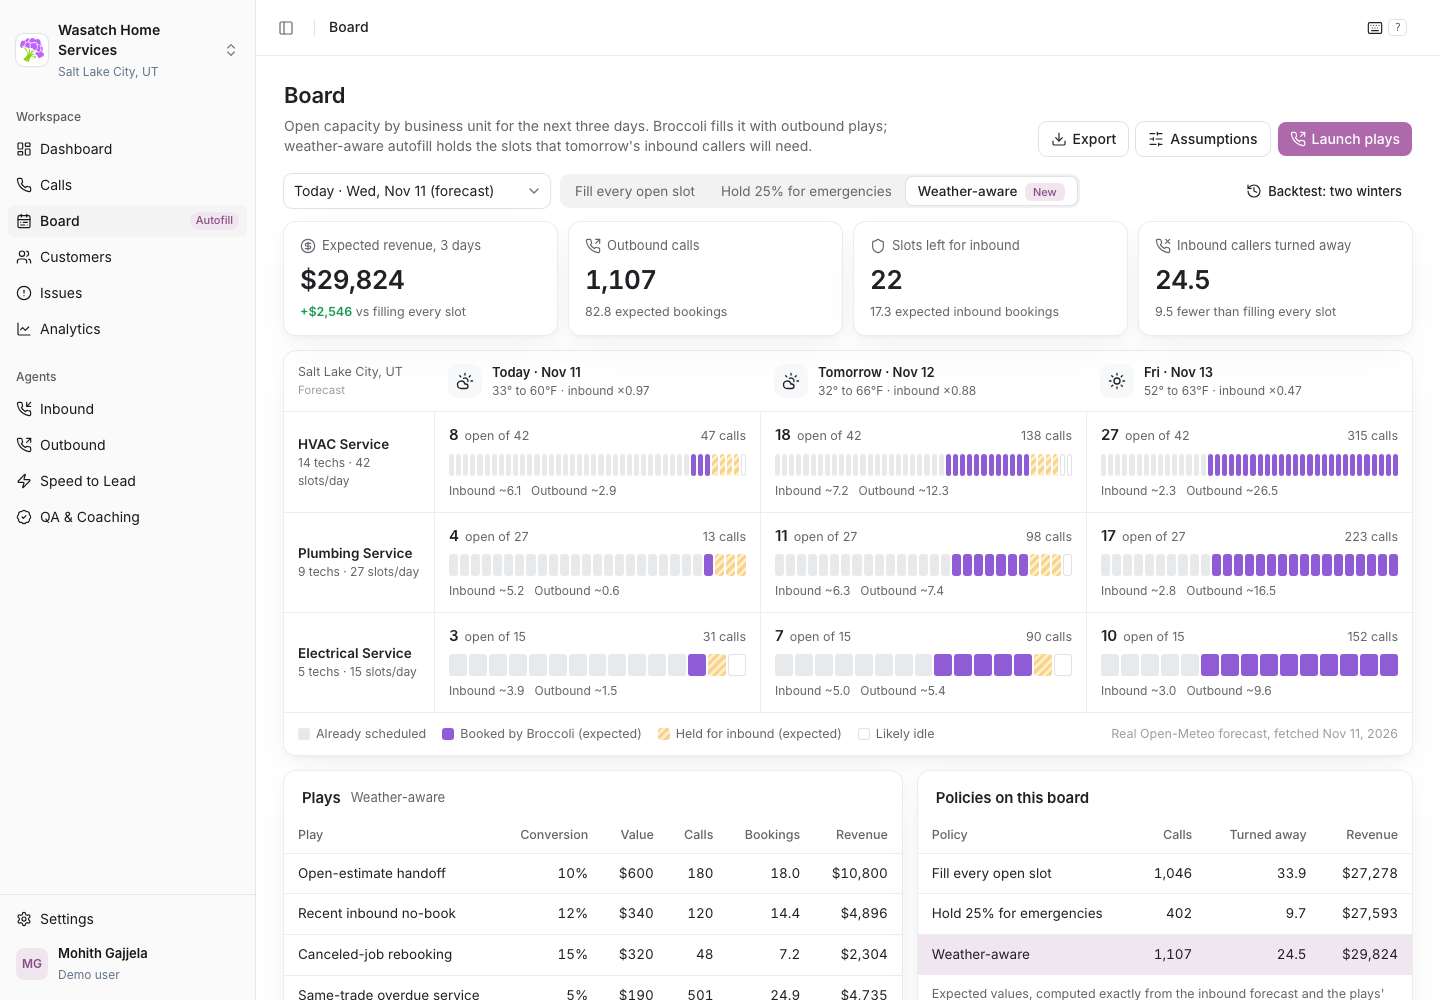
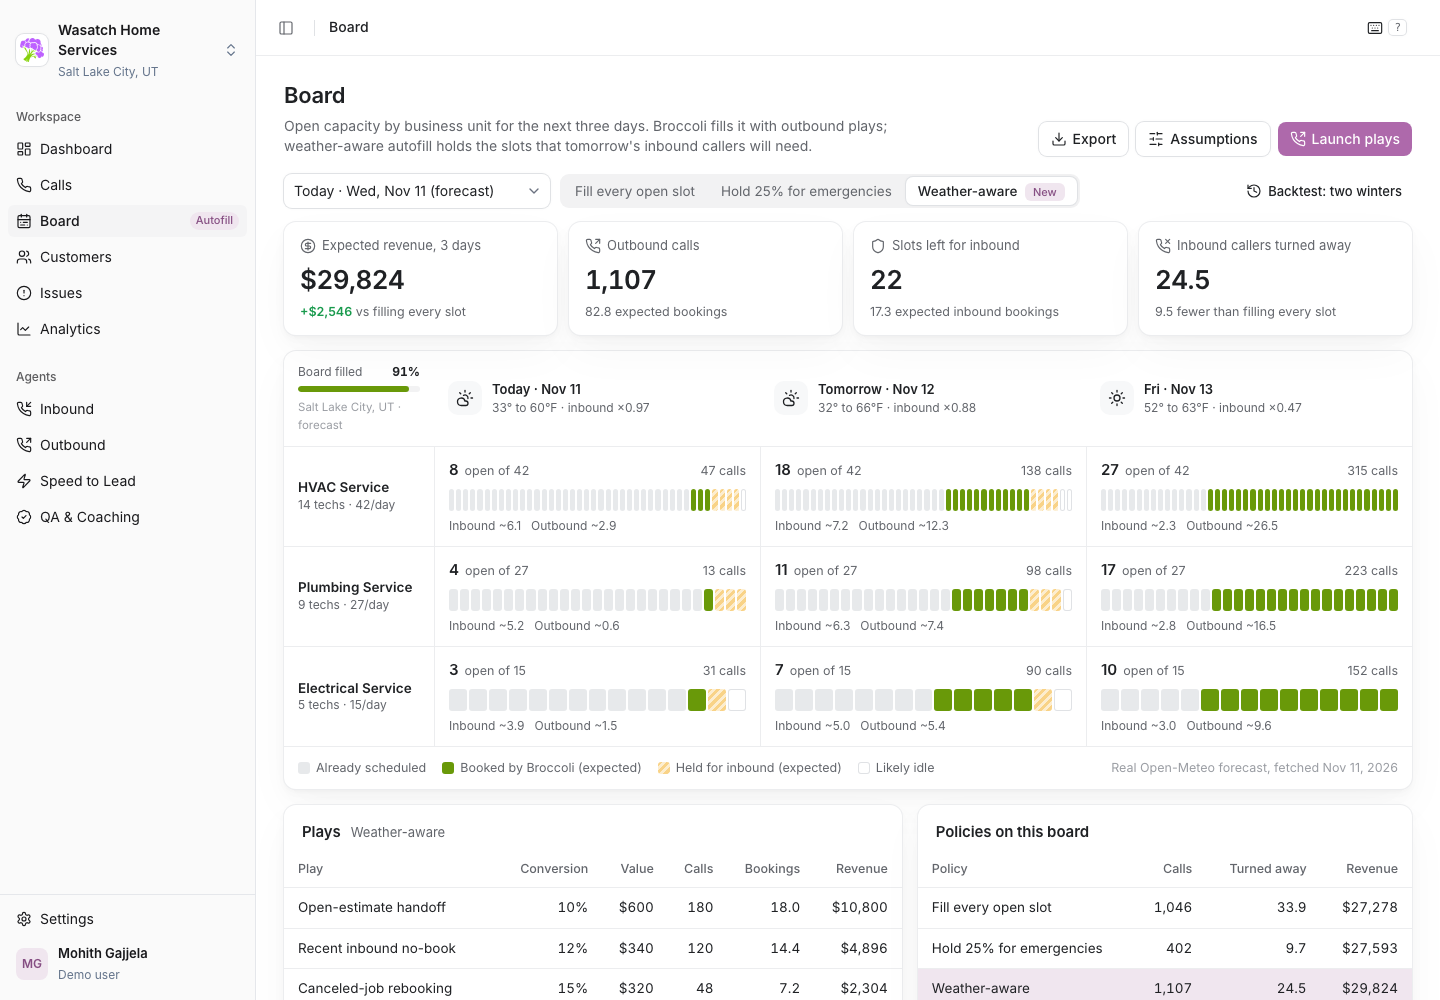
Board styling matched to Broccoli's dispatch board; board-filled meter

diff --git a/app.js b/app.js
@@ -107,11 +107,13 @@ function viewBoard(params) {
     </div>
     <section class="card" aria-label="Board">
       <div class="wx">
-        <div class="lab">${esc(CONFIG.city)}<br><span class="ink3" style="font-size:11.5px">${snap.id === "today" ? "Forecast" : "Actual"}</span></div>
+        <div class="lab"><div style="display:flex;justify-content:space-between;font-size:12px"><span>Board filled</span><b class="num" style="color:var(--bui-ink)">${pct((P.rows.reduce((s, r) => s + r.booked, 0) + P.totals.outboundBooked) / P.rows.reduce((s, r) => s + r.capacity, 0), 0)}</b></div>
+          <div style="height:6px;border-radius:99px;background:var(--bui-field);margin:5px 0 6px;overflow:hidden"><div style="height:100%;width:${pct((P.rows.reduce((s, r) => s + r.booked, 0) + P.totals.outboundBooked) / P.rows.reduce((s, r) => s + r.capacity, 0), 1)};background:var(--board-booked);border-radius:99px"></div></div>
+          <span class="ink3" style="font-size:11.5px">${esc(CONFIG.city)} · ${snap.id === "today" ? "forecast" : "actual"}</span></div>
         ${snap.dates.map((d, k) => `<div class="day"><span class="ico"><i data-lucide="${wxIcon(snap.temps[k])}"></i></span><div><div class="d1">${k === 0 ? "Today" : k === 1 ? "Tomorrow" : DAYNAME(d).split(",")[0]} · ${DAYNAME(d).split(", ")[1]}</div><div class="d2">${Math.round(snap.mins[k])}° to ${Math.round(snap.maxs[k])}°F · inbound ×${multiplier(BOARD.fit, snap.temps[k], 1).toFixed(2)}</div></div></div>`).join("")}
       </div>
       <div class="board" role="grid" aria-label="Business units by day">
-        ${CONFIG.rows.map((row) => `<div class="rowh" role="rowheader"><span class="t">${esc(row.label)}</span><span class="s">${row.techs} techs · ${row.capacity} slots/day</span></div>
+        ${CONFIG.rows.map((row) => `<div class="rowh" role="rowheader"><span class="t">${esc(row.label)}</span><span class="s">${row.techs} techs · ${row.capacity}/day</span></div>
           ${[0, 1, 2].map((d) => { const r = P.rows.find((x) => x.row === row.id && x.day === d); return `<button class="cell" role="gridcell" type="button" data-cell="${row.id}/${d}" aria-label="${esc(row.label)} ${d === 0 ? "today" : d === 1 ? "tomorrow" : "day after"}: ${r.open} open, ${n0(r.ev.calls)} calls, ${n1(r.inboundMean)} inbound expected">
             <div class="top"><b>${r.open}</b> open of ${r.capacity}<span class="calls">${n0(r.ev.calls)} calls</span></div>
             ${slotStrip(r)}
@@ -171,7 +173,7 @@ function viewCell(rowId, d, params) {
   const x = (k) => L + k * bw;
   const chart1 = `<svg class="chart" viewBox="0 0 ${W} ${H}" width="100%" role="img" aria-label="Distribution of inbound demand still to come">
     ${[0, 0.5, 1].map((f) => `<line class="gl" x1="${L}" x2="${W - Rm}" y1="${T + (1 - f) * (H - T - B)}" y2="${T + (1 - f) * (H - T - B)}"/><text x="${L - 6}" y="${T + (1 - f) * (H - T - B) + 4}" text-anchor="end">${pct(f * ymax, 0)}</text>`).join("")}
-    ${pmf.map((p, k) => `<rect x="${x(k) + 1}" y="${T + (1 - p / ymax) * (H - T - B)}" width="${Math.max(1, bw - 2)}" height="${(p / ymax) * (H - T - B)}" rx="2" fill="${k <= leftForInbound ? "hsl(var(--booked) / .55)" : "hsl(var(--unbooked) / .8)"}"/>`).join("")}
+    ${pmf.map((p, k) => `<rect x="${x(k) + 1}" y="${T + (1 - p / ymax) * (H - T - B)}" width="${Math.max(1, bw - 2)}" height="${(p / ymax) * (H - T - B)}" rx="2" fill="${k <= leftForInbound ? "rgb(105 153 9 / .6)" : "hsl(var(--unbooked) / .8)"}"/>`).join("")}
     <line x1="${x(leftForInbound + 1)}" x2="${x(leftForInbound + 1)}" y1="${T - 4}" y2="${H - B}" stroke="var(--bui-ink)" stroke-dasharray="4 3"/>
     <text x="${x(leftForInbound + 1) + 4}" y="${T + 8}" style="fill:var(--bui-ink)">${n1(leftForInbound)} slots left for inbound</text>
     ${[0, Math.round(max / 4), Math.round(max / 2), Math.round((3 * max) / 4), max].map((k) => `<text x="${x(k) + bw / 2}" y="${H - B + 16}" text-anchor="middle">${k}</text>`).join("")}
@@ -204,7 +206,7 @@ function viewCell(rowId, d, params) {
     </div>
     <div class="grid2" style="grid-template-columns:1fr 1fr;margin-top:0">
       <section class="card"><div class="card-h"><h3>Inbound still to come</h3><span class="sub">Negative binomial, mean ${n1(r.inboundMean)}</span></div><div class="card-b">${chart1}
-        <p class="note">Purple: callers who still find a slot after this policy's outbound bookings. Orange: callers who would be turned away; ${pct(assumptions().lossShare, 0)} of them call a competitor.</p></div></section>
+        <p class="note">Green: callers who still find a slot after this policy's outbound bookings. Orange: callers who would be turned away; ${pct(assumptions().lossShare, 0)} of them call a competitor.</p></div></section>
       <section class="card"><div class="card-h"><h3>Is one more tune-up worth it?</h3></div><div class="card-b">${chart2}
         <p class="note">Each tune-up earns ${usd(cheap.value)} but can take a slot a ${usd(r.inboundValue)} repair caller needed. The curve peaks where the chance that inbound fills the next slot drops below ${pct(cheap.value / (r.inboundValue * assumptions().lossShare), 0)}, Littlewood's rule.</p></div></section>
     </div>

diff --git a/style.css b/style.css
@@ -42,6 +42,8 @@
   --bui-shadow-btn: 0 0 0 1px var(--bui-line-strong), var(--bui-shadow-xs);
   --bui-shadow-card: 0 0 0 1px var(--bui-line), var(--bui-shadow-sm);
   --bui-shadow-overlay: 0 0 0 1px var(--bui-line), var(--bui-shadow-lg);
+  /* "Booked by Broccoli" green sampled from Broccoli's own Dispatch board UI on broccoli.com. */
+  --board-booked: rgb(105, 153, 9);
   --sidebar-width: 16rem;
   --font-sans: "Inter", ui-sans-serif, system-ui, sans-serif;
 }
@@ -163,7 +165,7 @@ button { font: inherit; color: inherit; }
 /* board grid */
 .board { display: grid; grid-template-columns: 150px repeat(3, minmax(0, 1fr)); }
 .board .rowh { padding: 14px; border-bottom: 1px solid var(--bui-line); display: flex; flex-direction: column; justify-content: center; }
-.board .rowh .t { font-weight: 600; font-size: 13.5px; }
+.board .rowh .t { font-weight: 600; font-size: 13.5px; line-height: 1.25; }
 .board .rowh .s { font-size: 12px; color: var(--bui-ink-2); }
 .cell { display: block; text-align: left; border: 0; background: none; padding: 12px 14px; border-bottom: 1px solid var(--bui-line); border-left: 1px solid var(--bui-line); cursor: pointer; width: 100%; }
 .cell:hover { background: var(--bui-hover); }
@@ -173,7 +175,7 @@ button { font: inherit; color: inherit; }
 .slots { display: flex; gap: 2px; margin: 8px 0 6px; height: 22px; }
 .slots span { flex: 1; border-radius: 3px; min-width: 2px; }
 .s-sched { background: var(--bui-hover-2); }
-.s-out { background: hsl(var(--booked)); }
+.s-out { background: var(--board-booked); }
 .s-hold { background: repeating-linear-gradient(135deg, hsl(var(--unbooked) / .55) 0 3px, hsl(var(--unbooked) / .22) 3px 6px); }
 .s-open { background: var(--bui-surface); box-shadow: inset 0 0 0 1px var(--bui-line-strong); }
 .cell .bot { display: flex; gap: 10px; font-size: 12px; color: var(--bui-ink-2); }
@@ -190,7 +192,7 @@ button { font: inherit; color: inherit; }
 .backdrop { position: fixed; inset: 0; background: rgba(15, 15, 20, .28); display: grid; place-items: center; z-index: 50; }
 .dialog { width: min(520px, calc(100vw - 2rem)); background: var(--bui-surface); border-radius: 14px; box-shadow: var(--bui-shadow-overlay); }
 .dialog .dh { padding: 20px 22px 14px; border-bottom: 1px solid var(--bui-line); display: flex; align-items: flex-start; }
-.dialog .dh h2 { margin: 0 0 2px; font-size: 18px; font-weight: 600; }
+.dialog .dh h2 { margin: 0 0 2px; font-size: 17px; font-weight: 600; letter-spacing: -.01em; }
 .dialog .dh p { margin: 0; color: var(--bui-ink-2); font-size: 14px; }
 .dialog .dh .icon-btn { margin-left: auto; }
 .dialog .db { padding: 14px 22px; }
